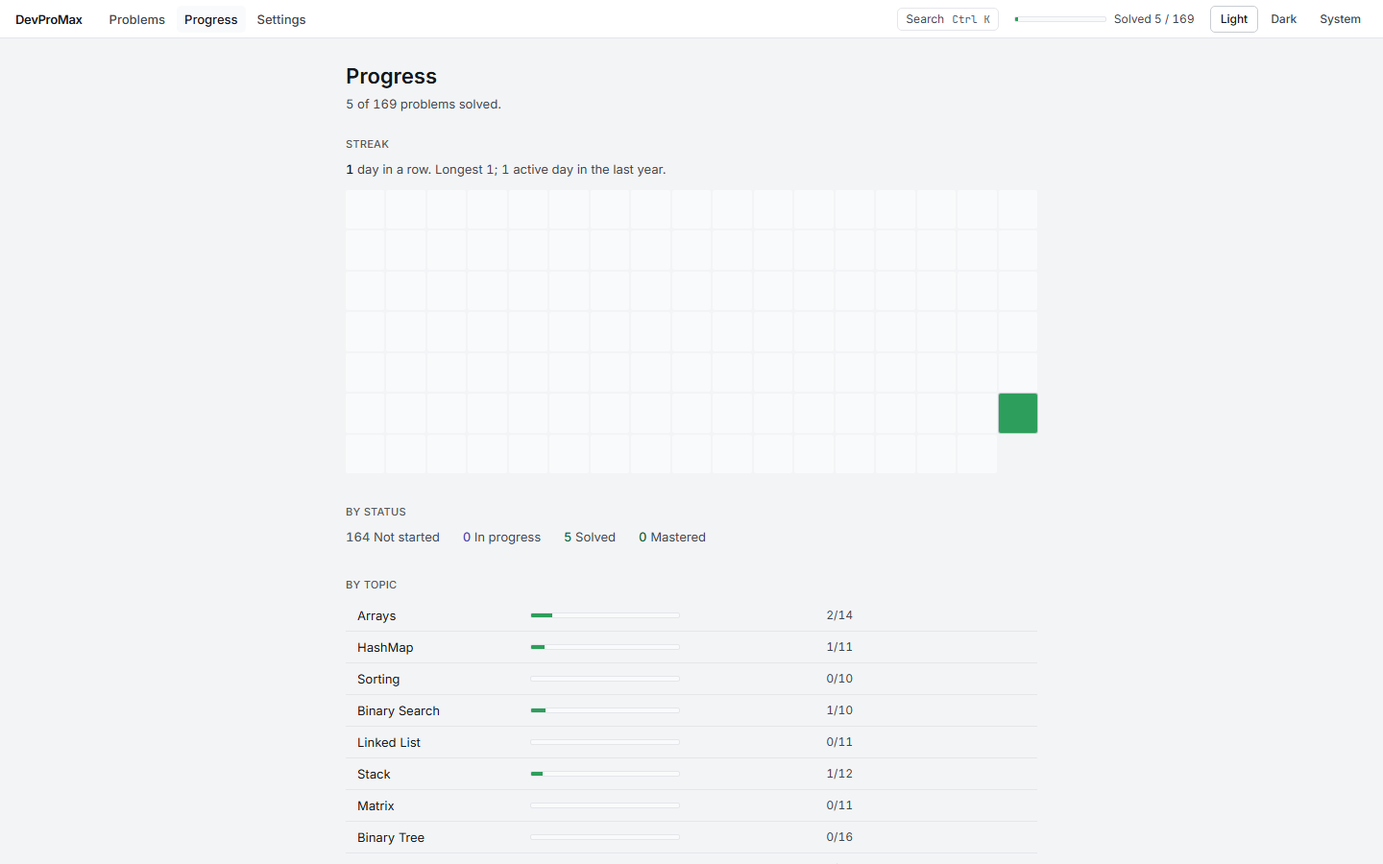
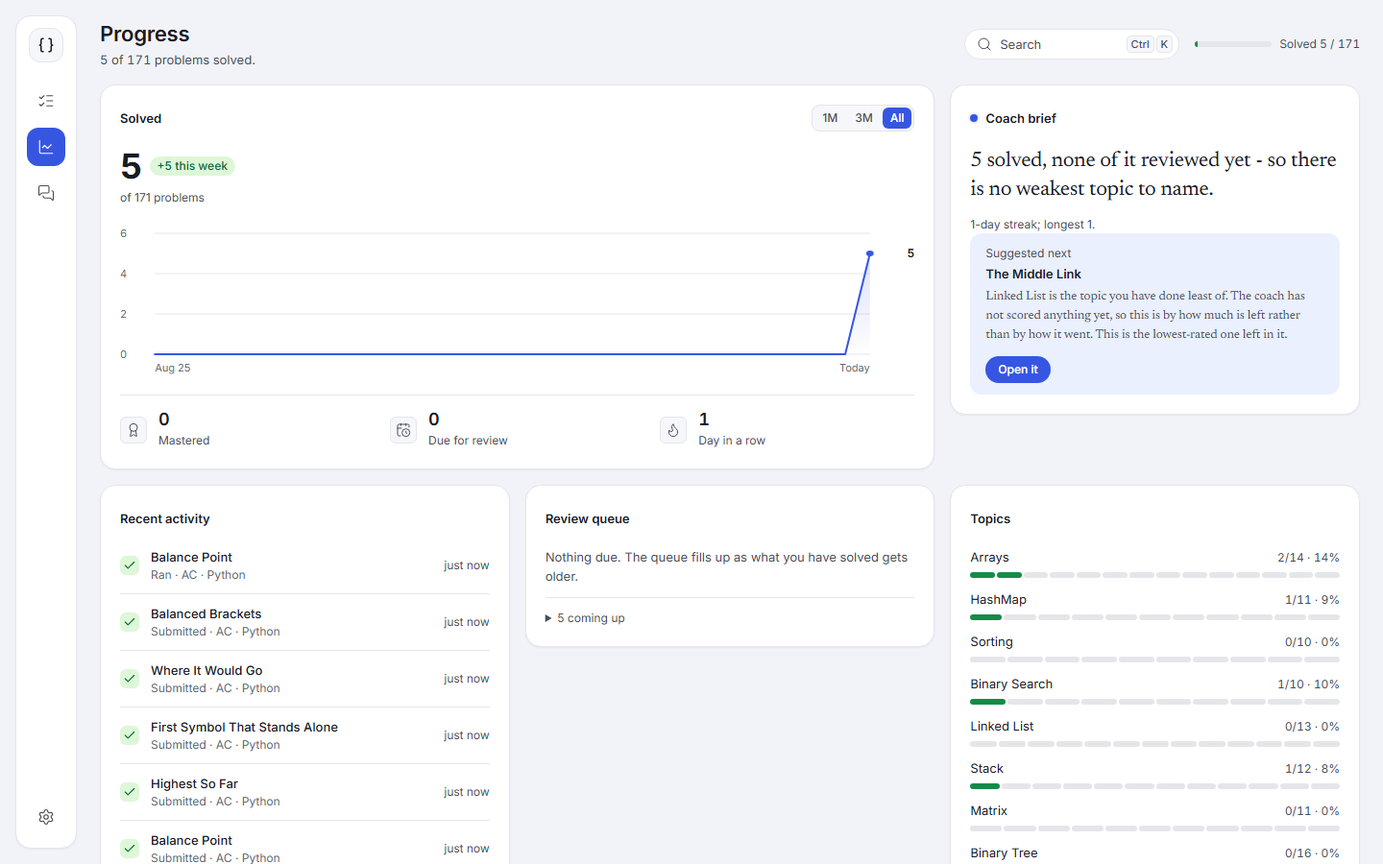
P9-6: DESIGN.md, ROADMAP, CHANGELOG and README screenshots for the shipped v2
DESIGN.md states the shipped values and where they moved from the targets
read off the reference, with why: the dark surface steps, accent hue 268,
the selected step and what may sit on it, border-input, solved progress in
success rather than the accent, the rail and header as built, the Due view,
the dashboard's cards and its coach brief written from the coach's marks,
Segmented as toggle buttons. The list's row cost is stated as measured
(19 rows where there were 24 at 1440x900), not as the "about one" it first
said - left for the owner to weigh.

The P9-6 row is Done; the milestone line and CLAUDE.md say so, and
CLAUDE.md's e2e line names DEVPROMAX_PORT. The CHANGELOG entry records the
unattended run: the missing reference, four preview rounds and the no-pass
rule, what the rounds and the audit of the built app found, and the e2e
suite's discovery about its own database. README screenshots retaken.

diff --git a/docs/DESIGN.md b/docs/DESIGN.md
@@ -8,12 +8,14 @@ It is a working document with teeth: section 13 is a checklist, and a screen
 that fails it does not merge. Where it is silent, decide in the spirit of
 section 1 and then write down what you decided.
 
-> **Status (2026-09-22, P9-6).** This is the second version of this document,
-> rewritten from a reference the owner chose (section 2). `tokens.css` and the
-> screens still implement the first version until P9-6 lands, so an audit against
-> this document today reports the whole gap - which is the work list. The first
-> version is in git history: `git show 181e5c5:docs/DESIGN.md`. Values marked _target_ are read off the reference by eye; P9-6 sets
-> the exact ones in `tokens.css`, where `contrast.test.ts` proves them.
+> **Status (2026-09-23, P9-6).** This is the second version of this document,
+> rewritten from a reference the owner chose (section 2) and implemented by P9-6.
+> The values below are the shipped ones in `tokens.css`, where `contrast.test.ts`
+> proves them; where they moved from the targets read off the reference, the
+> table says so and why. The first version is in git history:
+> `git show 181e5c5:docs/DESIGN.md`. The redesign's run - brief, four reviewed
+> preview rounds, decision - is in `data/design-audit/redesign-cards/`
+> (gitignored).
 
 ---
 
@@ -100,52 +102,77 @@ matters:
 > the semantic name. If none fits, add one - do not reach past them into a ramp.
 
 Colours are OKLCH so that equal steps look equal. Neutrals lean slightly blue
-(hue ~265) toward the accent, as the reference's greys do.
+(hue 265) toward the accent, as the reference's greys do.
 
-### Surfaces, light theme (_target_)
+### Surfaces, light theme
 
-| Token            | Target                   | Used for                                                             |
-| ---------------- | ------------------------ | -------------------------------------------------------------------- |
-| `bg`             | `oklch(0.965 0.006 265)` | The canvas behind everything                                         |
-| `surface`        | `oklch(1 0 0)`           | Cards and the rail                                                   |
-| `surface-sunken` | `oklch(0.975 0.004 265)` | Inside a card: segmented trays, search fields, table headers         |
-| `surface-raised` | `oklch(1 0 0)`           | Menus, the palette, dialogs (lifted by `shadow-overlay`, not colour) |
-| `border`         | `oklch(0.925 0.006 265)` | The hairline around every card and between rows                      |
-| `border-strong`  | `oklch(0.86 0.008 265)`  | Inputs, the edge of a control that can be clicked                    |
+| Token              | Value                    | Used for                                                                        |
+| ------------------ | ------------------------ | ------------------------------------------------------------------------------- |
+| `bg`               | `oklch(0.965 0.006 265)` | The canvas behind everything                                                    |
+| `surface`          | `oklch(1 0 0)`           | Cards and the rail                                                              |
+| `surface-sunken`   | `oklch(0.975 0.004 265)` | **Inside a card only**: trays, wells, table headers, the row under the pointer  |
+| `surface-raised`   | `oklch(1 0 0)`           | Menus, the palette, dialogs (lifted by `shadow-overlay`, not colour)            |
+| `surface-selected` | accent-200               | The selected row or option; see below                                           |
+| `border`           | `oklch(0.925 0.006 265)` | The hairline around every card and between rows                                 |
+| `border-strong`    | `oklch(0.86 0.008 265)`  | The edge of a control that can be clicked: buttons, trays                       |
+| `border-input`     | neutral-525 (L 0.64)     | The edge of a text field: 3:1 on the card, since it is the only sign of a field |
 
-### Surfaces, dark theme (_target_)
+`surface-sunken` is lighter than the canvas, so it is only ever used inside a
+card; on the canvas a well reads as a raised patch or not at all. A tray that
+sits on the canvas (the workspace toolbar's language control) takes `surface`.
+
+### Surfaces, dark theme
 
 Dark is designed, not inverted: surfaces get **lighter** as they rise, and
 tonal steps do the lifting because a shadow on near-black is invisible.
 
-| Token            | Target                   |
-| ---------------- | ------------------------ |
-| `bg`             | `oklch(0.155 0.01 265)`  |
-| `surface`        | `oklch(0.2 0.012 265)`   |
-| `surface-sunken` | `oklch(0.175 0.01 265)`  |
-| `surface-raised` | `oklch(0.235 0.013 265)` |
-| `border`         | `oklch(0.27 0.012 265)`  |
-| `border-strong`  | `oklch(0.36 0.014 265)`  |
+| Token            | Value                    | Target read off the reference | Why it moved                                                                     |
+| ---------------- | ------------------------ | ----------------------------- | -------------------------------------------------------------------------------- |
+| `bg`             | `oklch(0.155 0.01 265)`  | same                          |                                                                                  |
+| `surface`        | `oklch(0.225 0.012 265)` | `0.2`                         | A card needs 1.14:1 over the canvas to read as a card with no shadow             |
+| `surface-sunken` | `oklch(0.185 0.01 265)`  | `0.175`                       | Kept between canvas and card after the card moved                                |
+| `surface-raised` | `oklch(0.27 0.013 265)`  | `0.235`                       | Tooltips melted into the card at 1.08:1; 1.14:1 now, plus a `border-strong` edge |
+| `border`         | `oklch(0.3 0.012 265)`   | `0.27`                        | Holds the card-edge floor (1.2:1) against the lighter card                       |
+| `border-strong`  | `oklch(0.38 0.014 265)`  | `0.36`                        | Same                                                                             |
+| `fg`             | `oklch(0.94 0.006 265)`  | about 0.95                    |                                                                                  |
 
-Text in dark is off-white (`fg` about L 0.95), never pure white.
+Text in dark is off-white, never pure white.
+
+### The selected step
+
+`surface-selected` (added by P9-6) marks the row or option you are on: the
+palette's highlighted result, the test being read in the results card, the
+current interview problem. It is a blue step (light accent-200; dark a calm
+accent-900 at chroma .07, so a verdict dot on it still holds 3:1), and it is
+never the only signal - it always comes with a 2px accent bar at the row's left
+edge and usually a heavier label. Text on it is `fg`, `fg-muted` or a verdict's
+`*-fg`, never `fg-subtle`, which drops to 4.1:1 there. In dark the Callout's `accent-subtle`
+sits a step below it, so a suggestion never reads as a selection.
 
 ### The accent
 
-One accent, a saturated royal blue, _target_ `oklch(0.52 0.23 266)` for fills
-in light and `oklch(0.56 0.21 266)` in dark, with white text on both (5.9:1 and
-about 4.9:1; the dark fill cannot get lighter without losing that).
+One accent, a saturated royal blue: `oklch(0.52 0.215 268)` for fills in light
+and `oklch(0.565 0.2 268)` in dark, with white text on both (5.86:1 and
+4.78:1; the dark fill cannot get lighter without losing that). The reference
+read as `0.52 0.23 266`; that is within a few ΔE of Tailwind's stock blue-600,
+which the preview reviewers flagged as a default-kit colour, so the hue moved
+two degrees and the chroma came down a little - still the reference's blue.
 `accent-fg` (the accent as text) is darker in light and lighter in dark;
 `accent-subtle` is the pale blue tint of the Callout.
 
 It means **"this is the action"** or **"this is where you are"**: the primary
 pill, the active rail item, the selected segment, the focus ring, a chart's
-line, the current row. It is never decoration, and it is never a status -
+line, the bar on the current row. It is never decoration, and it is never a status -
 "In progress" is drawn in `fg-muted` with its ring glyph, not in blue, so the
 only blue things on screen are things you can act on or where you are.
 
 The previous accent was indigo-violet, chosen to sit far from the verdict hues
-and from the editor. Blue at 266 is still far from green, amber and red, but it
-is Monaco's keyword blue - so the editor gets its own theme (section 8).
+and from the editor. Blue at 268 is still far from green, amber and red, but it
+is Monaco's keyword blue - so the editor gets its own theme (section 8), and code
+keywords everywhere take `code-keyword`, a violet at hue 315.
+
+The focus ring is accent-800 in light (darker than the fill, 1.8:1 against the
+Submit pill it surrounds) and accent-400 in dark.
 
 ## 5. Type
 
@@ -189,13 +216,13 @@ Every number read by comparison - counts, timings, ratings, deltas - gets `tnum`
 so even steps land on the grid and odd ones are deliberate half-steps. The
 reference's airiness is spent in chosen places, not by stretching the step:
 
-| Where                 | Space                                                                                   |
-| --------------------- | --------------------------------------------------------------------------------------- |
-| Canvas padding        | 24px (`p-6`)                                                                            |
-| Gap between cards     | 16px (`gap-4`); 12px in the workspace, where width is scarce                            |
-| Card padding          | 20px (`p-5`); 16px for dense cards (the list, the results panel)                        |
-| Card title to content | 16px                                                                                    |
-| Table rows            | 36px tall (was 33px): about one row fewer at 900px, accepted by the owner for this look |
+| Where                 | Space                                                                                                                                                                                                                                                       |
+| --------------------- | ----------------------------------------------------------------------------------------------------------------------------------------------------------------------------------------------------------------------------------------------------------- |
+| Canvas padding        | 24px (`p-6`)                                                                                                                                                                                                                                                |
+| Gap between cards     | 16px (`gap-4`); 12px in the workspace, where width is scarce                                                                                                                                                                                                |
+| Card padding          | 20px (`p-5`); 16px for dense cards (the list, the results panel)                                                                                                                                                                                            |
+| Card title to content | 16px                                                                                                                                                                                                                                                        |
+| Table rows            | 36px tall (was 33px). Measured after P9-6: with the page header and the card's toolbar, a 1440×900 window shows 19 rows where version 1 showed 24 - more than the "about one row fewer" this table first said. Left for the owner to weigh against the look |
 
 In hand-written CSS a spacing step is `calc(var(--spacing) * 3)`, never
 `var(--spacing-3)`. Tailwind v4 has one `--spacing` variable; the shorter
@@ -247,8 +274,12 @@ Two uses are added:
 - **Positive numbers** in a list may be `success-fg`; negative ones stay `fg`.
   Red is for failure, not for "less".
 
-Progress statuses: Not started is `fg-subtle`, In progress is `fg-muted` with
-the half-ring glyph, Solved and Mastered are `success`, told apart by shape.
+Progress statuses: Not started is an empty ring in `fg-subtle`, In progress a
+half-filled ring in `fg-muted`, Solved a disc and Mastered a disc in a ring, both
+`success`. Solved counts drawn as progress - topic bars, the solved meter - are
+`success` too: solved is a status, and the accent never is one. (The first draft
+of this version said topic segments were "solved in accent"; that contradicted
+this section, and the preview review caught it.)
 
 **Never colour alone.** Every state carries a second signal: a word, a shape, an
 icon, an `aria-` attribute. Roughly one reader in twelve cannot separate red
@@ -265,21 +296,28 @@ The shell and each screen, in the reference's terms. Components are built with
 the screen that needs them (section 10).
 
 **Shell.** A 64px icon rail on the left, a card of its own on the canvas: the
-logo mark at the top, then Problems, Progress, Interview, and Settings pinned to
-the bottom. Items are 40px squares with an 18px outline icon; the active one is
-filled `accent` with a white icon, `rounded-lg`. Every item has a tooltip naming
-it and its shortcut. The rail replaces the top navigation bar. To the right of
+logo mark at the top (a neutral tile, not a link), then Problems, Progress,
+Interview, and Settings pinned to the bottom. Items are 40px squares with an 18px
+outline icon; the active one is filled `accent` with a white icon, `rounded-lg`,
+and Problems stays active inside a problem. Every item has a tooltip naming it
+(there are no navigation shortcuts to add to it). The rail replaces the top
+navigation bar. The theme choice is in Settings > Appearance, not the chrome: the
+header has room for what is used on every visit, and the theme is chosen once. To the right of
 it, each page has a **header** on the canvas, not in a card: title (`text-xl`,
-600), one muted line of real context beneath ("171 problems · 4 due for
-review"), and on the right the search pill (`surface`, `rounded-full`, "Search"
+600), one muted line of real context beneath ("4 due for review · 1 in
+progress" - what is waiting, never a count the page shows again below), and on the right the search pill (`surface`, `rounded-full`, "Search"
 plus a `Ctrl K` chip, opening the palette) and the solved counter.
 
-**Problem list.** Two cards: filters (topic, difficulty, status, starred) in a
-narrow card on the left, and the table in a wide card beside it, with its own
-toolbar row (search field, a Segmented control for All / Due / Starred, the
-count). Rows 36px, hairline dividers, status glyph first, numbers `tnum` and
-right-aligned. The row under the pointer takes `surface-sunken`; the current row
-has a 2px accent bar at its left edge.
+**Problem list.** Two cards: filters (topic, difficulty, status, the language
+progress is counted in) in a narrow card on the left, and the table in a wide
+card beside it, with its own toolbar row (search field, a Segmented control for
+All / Due / Starred, the count). Due is a list filter of its own
+(`?due=true`, from the review queue) and Starred moved out of the filter card
+into the Segmented. Rows 36px, hairline dividers, status glyph first, numbers
+`tnum` and right-aligned. The row under the pointer takes `surface-sunken`; the
+row holding keyboard focus - where you are - has a 2px accent bar at its left
+edge. Below 1280px the filter card folds behind a Filters button and the
+Patterns column steps aside.
 
 **Workspace.** Three cards with 12px gutters: the statement (tabs across its top,
 Description / Hints / Coach / Editorial / Notes / Submissions), the editor, and
@@ -297,21 +335,29 @@ verdict's subtle tint with its glyph, then the verdict in words.
 **Coach tab.** The coach's words in Newsreader `text-md`, the rubric as small
 pips, the user's messages in Inter. The recommendation sits in a Callout.
 
-**Progress.** The one screen that is a dashboard, laid out like the reference's:
+**Progress.** The one screen that is a dashboard, laid out like the reference's.
+The `solves` series behind the chart (first accepts per day) is part of
+`/api/dashboard`:
 
 - A wide **Solved** card: the count as a `text-3xl` 700 numeral, a delta chip
   ("+3 this week"), a Segmented range control (1M / 3M / All), and a line chart
   of solves over time in the accent, with the permitted area fill. Beneath a
   divider, three sub-stats with icon tiles: Mastered, Due for review, Current streak.
 - A **Coach brief** card beside it: the coach mark, a one-sentence serif headline
-  ("You are strongest in hash maps; graphs have stalled for nine days."), a short
-  list of the signals behind it, and a Callout with the suggested next problem
-  and a primary pill to open it.
-- A row of three cards: **Recent submissions** (verdict tile, problem, topic ·
-  when, time right-aligned), **Review queue** (due items, same row pattern), and
-  **Topics** (each topic's name, percentage, and a segmented bar of its problems:
-  solved in accent, remaining in `border`; a topic behind its review schedule
-  uses `warn` with the words "behind").
+  ("You are strongest in HashMap and weakest in Graph."), a short list of the
+  signals behind it, and a Callout with the suggested next problem and a primary
+  pill to open it. The sentence is written locally from the coach's rubric marks
+  and the review queue - the coach's record read back in its voice - and never by
+  calling the coach: D13 does not bend for a dashboard.
+- A row of three cards: **Recent activity** (verdict tile for a submission or a
+  run, a neutral icon tile for a hint, an editorial or a coaching turn; problem;
+  what happened · language; when, right-aligned), **Review queue** (due items,
+  same row pattern; absent before anything is solved), and **Topics** (each
+  topic's name, percentage, and a segmented bar of its problems: solved in
+  `success`, remaining in `border`; a topic behind its review schedule uses
+  `warn` with the word "behind"; tiers in a footer line).
+- Then the coach's marks per topic (**Weakest topics**), the **Streak** in words
+  with a neutral calendar under it, and the **Skills report** export.
 
 **Interview.** A header, then one card for the running sitting (stage as a
 Segmented display, clock in `tnum`), the transcript in the coach's serif.
@@ -358,18 +404,20 @@ Primitives in `apps/web/src/ui/` today: `Button`, `Input`, `Tabs`, `Tooltip`.
 This design adds, each when its first screen is built and promoted to `ui/` when
 a second one needs it:
 
-| Pattern           | First needed by | What it is                                                                                            |
-| ----------------- | --------------- | ----------------------------------------------------------------------------------------------------- |
-| `Card`            | Shell           | `surface`, `border`, `shadow-card`, `rounded-xl`, a title slot and an action slot (the ↗ link button) |
-| `Button` variants | Workspace       | `primary` becomes a pill; `secondary` stays `rounded-md`; new `primary-outline`                       |
-| `Segmented`       | Workspace       | Radix Toggle Group in a `surface-sunken` tray, selected segment filled `accent`                       |
-| `Kbd`             | Shell           | `rounded-xs` chip, `text-2xs`, `surface-sunken`, `fg-muted`                                           |
-| `RailItem`        | Shell           | Icon link with tooltip, active state                                                                  |
-| `Stat`            | Progress        | Numeral, label, optional delta chip                                                                   |
-| `Callout`         | Coach, Progress | `accent-subtle` inset, `rounded-lg`, no border                                                        |
-| `ListRow`         | Progress        | Icon or verdict tile, title, meta line, right-aligned value                                           |
-| `SegmentBar`      | Progress        | A row of small segments, one per item, for topic progress                                             |
-| `CoachMark`       | Coach           | 8px `accent` dot in a 2px `accent-subtle` ring - flat, no gradient                                    |
+| Pattern           | First needed by | What it is                                                                                                                                                                                                            |
+| ----------------- | --------------- | --------------------------------------------------------------------------------------------------------------------------------------------------------------------------------------------------------------------- |
+| `Card`            | Shell           | `surface`, `border`, `shadow-card`, `rounded-xl`, a title slot and an action slot (the ↗ link button)                                                                                                                 |
+| `Button` variants | Workspace       | `primary` becomes a pill; `secondary` stays `rounded-md`; new `primary-outline`                                                                                                                                       |
+| `Segmented`       | Workspace       | Toggle buttons (`aria-pressed`) in a labelled group, in a `surface-sunken` tray, selected segment filled `accent`; arrow keys move between them. Not Radix Toggle Group: the choosers were already announced this way |
+| `Kbd`             | Shell           | `rounded-xs` chip, `text-2xs`, `surface-sunken`, `fg-muted`                                                                                                                                                           |
+| `RailItem`        | Shell           | Icon link with tooltip, active state                                                                                                                                                                                  |
+| `Stat`            | Progress        | Numeral, label, optional delta chip                                                                                                                                                                                   |
+| `Callout`         | Coach, Progress | `accent-subtle` inset, `rounded-lg`, no border                                                                                                                                                                        |
+| `ListRow`         | Progress        | Icon or verdict tile, title, meta line, right-aligned value                                                                                                                                                           |
+| `SegmentBar`      | Progress        | A row of small segments, one per item, for topic progress                                                                                                                                                             |
+| `CoachMark`       | Coach           | 8px `accent` dot in a 2px `accent-subtle` ring - flat, no gradient                                                                                                                                                    |
+| `VerdictTile`     | Workspace       | 20px `rounded-sm` square in the verdict's subtle tint with its glyph (tick, cross, clock)                                                                                                                             |
+| `IconTile`        | Progress        | The neutral tile beside a sub-stat or a non-verdict row                                                                                                                                                               |
 
 Icons are `lucide-react` (ISC licence): outline, 1.5px stroke, 16px in text and
 18px in the rail. It is an icon set, not a component library; the CLAUDE.md rule
@@ -412,6 +460,7 @@ Unchanged in substance from the first version:
 - [ ] Reachable and operable by keyboard alone; focus order matches visual order.
 - [ ] Focus ring present, not overridden, visible beside an accent fill.
 - [ ] No state signalled by colour alone; blue only for action or location.
+- [ ] A selected row carries a bar or weight as well as `surface-selected`; `surface-sunken` only inside a card.
 - [ ] Text contrast ≥ 4.5:1, meaningful borders and icons ≥ 3:1, both themes.
 - [ ] Spacing on the 4px step; card, gutter and row spacing as section 6.
 - [ ] Radius by size (section 6); nothing nested at the same radius as its parent.

diff --git a/ROADMAP.md b/ROADMAP.md
@@ -179,7 +179,7 @@ Phases: **P0** Foundations · **P1** Problem format · **P2** Judge + authoring 
 | 82 | P9-3 | P9 | More languages | C++, JavaScript/TypeScript, Go via new harnesses; content gets references per language incrementally. 2026-09-22: **deferred by the owner** until the existing app is solid; do not start without asking. When it resumes, the proposal on the table is JavaScript first (Node is already on both machines, so no new toolchain), a problem offering a language only once it has a reference in it, and Arrays as the pilot topic. | Blocked |
 | 83 | P9-4 | P9 | OpenAI-compatible provider | Adapter for OpenAI-compatible endpoints (`baseUrl`), which also covers Ollama/LM Studio for fully offline coaching. 2026-09-18: `createOpenAiCompatibleProvider`, third through the D12 seam, and the 51 assertions in `contract.test.ts` now run three times. Two things are different about it, both because the endpoint is the user's own: `coach.baseUrl` is a **setting** rather than an environment override - for the other two the address is a fact about the vendor - and its pricing table is **empty on purpose**, so the spend cap does not apply and Settings says why instead of showing a confident `$0.00`. Structured output is negotiated: `json_schema` first, one retry in `json_object` when the server says it cannot do schemas, since llama.cpp and friends still refuse and the answer is re-validated against the zod schema here either way. Two contract assertions had to be widened rather than satisfied: the key arrives as `Bearer <key>`, and the OpenAI chat API has no field for the system prompt at all - it is `messages[0]`, and asserting otherwise would be asserting the API is something else. | Done |
 | 84 | P9-5 | P9 | Format on save | Optional `black` and `google-java-format` integration via subprocess, detected at first run. 2026-09-22: `apps/server/src/formatters.ts` finds each by running it with `--version` - `DEVPROMAX_BLACK`, else `black`, else `<judge python> -m black`; `DEVPROMAX_GOOGLE_JAVA_FORMAT` (a jar, run with the judge's `java`, or an executable), else `google-java-format` - at start-up, cached, and again from Settings' "Check again". `GET`/`POST /api/format`; formatting is 200 in all three outcomes (`formatted`, `invalid` with the formatter's line and column, `unavailable`), writes nothing, and runs through `runProcess` with stdin (new `input` option), the allow-listed environment, a 20 s limit and an output cap. Java uses `--aosp`, the four-space style every starter already has. **"On save" means Ctrl+S, not the autosave**: the autosave fires mid-line, and reflowing code under a moving cursor is how a formatter gets uninstalled. So Ctrl+S (new, and no longer the browser's Save page dialog) saves at once and formats first when the new `editor.formatOnSave` preference is on; a Format button and Monaco's Shift+Alt+F appear only for a language whose formatter was found; the result goes in as one undoable edit, and only if the editor still holds exactly what was sent. The doctor lists both as optional without affecting its exit code. Tests: 25 unit (`formatters.test.ts`, a stand-in runner), 11 route, 2 `runProcess` stdin, 7 integration against the real two (opt-in, `DEVPROMAX_FORMATTER_TESTS=1`, own CI lane with pinned versions), 8 RTL in the workspace and 3 in Settings, and `e2e/format.spec.ts` for the undo and the Monaco keybinding. The browser pass found two defects the RTL suite could not: Ctrl+S straight after typing sent the text from before the last render, and the Format button kept focus so Ctrl+Z undid nothing. | Done |
-| 85 | P9-6 | P9 | Visual redesign to DESIGN.md v2 | 2026-09-22: `docs/DESIGN.md` rewritten from the owner's reference (card-based dashboard look, icon rail, royal-blue accent, serif coach voice); ROADMAP D16 updated. Remaining, through the `design-update` skill's redesign mode (`.claude/skills/design-update/reference/redesign.md`): save the reference image under `data/design-audit/<slug>/reference/` and measure it; propose `tokens.css` v2 (checked by `check-proposal.mjs`, previewed on every screen in both themes, independently reviewed, approved by the owner); then add `@fontsource-variable/newsreader` and `lucide-react`, build the shell (icon rail, page headers), the new primitives (Card, Segmented, Kbd, Stat, Callout, ListRow, SegmentBar, CoachMark), the Monaco theme from tokens, and the Progress dashboard; update `contrast.test.ts` (card-edge pair), the skill's audit rules, KitchenSink and the README screenshots. | In progress |
+| 85 | P9-6 | P9 | Visual redesign to DESIGN.md v2 | 2026-09-22: `docs/DESIGN.md` rewritten from the owner's reference (card-based dashboard look, icon rail, royal-blue accent, serif coach voice); ROADMAP D16 updated. 2026-09-23, unattended through the `design-update` skill's redesign mode (run `data/design-audit/redesign-cards/`): four token rounds previewed on every screen in both themes and independently reviewed; none reached the pass score (the preview cannot show layout), so the best round with every hard gate green went forward under the skill's no-pass rule, its open issues carried into the apply (`decision.md`). Shipped: `tokens.css` v2 (accent hue 268, `surface-selected`, `code-keyword`, `card-lift`), Newsreader and lucide-react, the Monaco theme from the tokens, the icon rail and page headers, the primitives (Card, Segmented, Kbd, RailItem, Stat, Callout, ListRow, SegmentBar, CoachMark, VerdictTile), every screen as cards, the Progress dashboard (with a `solves` series on `/api/dashboard`) and a Due view of the list (`?due=true`); `contrast.test.ts` and the skill's gates hold the new pairs; KitchenSink and the README screenshots show it. The reference image was not on disk, so the values came from DESIGN.md's targets. | Done |
 
 ---
 
@@ -194,7 +194,7 @@ Phases: **P0** Foundations · **P1** Problem format · **P2** Judge + authoring 
 | M3 Full catalogue | P6-0 … P6-7 | **Reached 2026-09-18.** 169 validated problems across all 14 topics and three tiers, every one with a generator, 2794 hidden tests, and all 95 patterns in the closed vocabulary used. Fewer than the ~200 the row first named, and deliberately: `docs/CURRICULUM.md` records every problem that was cut and why, the rule being that a problem which teaches nothing the one before it did not is worse than no problem. Differential testing regenerated all of them at two fresh seeds with the two references agreeing. |
 | M4 Learning loop | P7-1 … P7-10 | **Reached 2026-09-18, apart from P7-10.** Progressive hints the coach adapts rather than repeats; the editorial unlock with a reference diff; submission history you can open, compare and restore; notes that the list searches; the dashboard with its streak, rubric averages and exportable skills report; interview mode with a clock and no hints; the command palette, bookmarks and a recommendation that states its reason; the review queue; and version drift reported without ever demoting. P7-10 needs measured solving times, which only exist once someone has practised under P7-6's timer. |
 | M5 Release 1.0 | P8-1 … P8-5 | **Reached 2026-09-22.** Packaged `npm start`, docs complete, `temp/` retired. P8-1, P8-2 and P8-3 reached 2026-09-18: 76 end-to-end tests with a counted flake budget, performance budgets that fail a build and Lighthouse ≥ 90 in both themes, and a first-run doctor with backup and restore. P8-4 reached 2026-09-18: the README, screenshots and CHANGELOG. P8-5 closed 2026-09-22 when the owner confirmed retiring `temp/`. |
-| Beyond v1 | P9-1 … P9-6 | Stretch, and only where the machine allows it. P9-4 (OpenAI-compatible provider) and P9-1 (mock interview mode) reached 2026-09-18. P9-2 (Docker executor) reached 2026-09-22 on the second machine, which has Docker. P9-5 (format on save) reached 2026-09-22, optional and off by default. P9-6 (visual redesign) started 2026-09-22 with DESIGN.md v2. P9-3 is named out of scope for v1 in section 1. |
+| Beyond v1 | P9-1 … P9-6 | Stretch, and only where the machine allows it. P9-4 (OpenAI-compatible provider) and P9-1 (mock interview mode) reached 2026-09-18. P9-2 (Docker executor) reached 2026-09-22 on the second machine, which has Docker. P9-5 (format on save) reached 2026-09-22, optional and off by default. P9-6 (visual redesign) started 2026-09-22 with DESIGN.md v2 and reached 2026-09-23. P9-3 is named out of scope for v1 in section 1. |
 
 ---
 

diff --git a/CLAUDE.md b/CLAUDE.md
@@ -6,7 +6,7 @@ Working agreement for AI-assisted development on this repo. Read `ROADMAP.md` fi
 
 DevProMax is a local-first, LeetCode-style DSA training app for **Python and Java**. A React web UI lists 171 original problems across 14 topics, sorted by difficulty; users run and submit code against hidden tests in a local judge; an on-demand **AI Help** button sends the current code to an LLM coach (user-supplied Anthropic or Gemini key) that responds with rubric feedback and hints until the solution is Mastered.
 
-Current state: **M5 reached (2026-09-22)** — release 1.0; M4 was reached 2026-09-18. The catalogue is 171 validated problems with generated hidden tests (M3); the learning loop is complete apart from P7-10 — progressive hints, the editorial unlock with a diff, submission history, notes, the dashboard and its exportable skills report, interview mode, the command palette with bookmarks and recommendations, the spaced-repetition review queue, and version drift with Re-verify. M5's P8-1 … P8-5 are done: end-to-end tests with a flake budget, performance budgets and Lighthouse ≥ 90, the doctor, welcome, movable `data/` and backups, the README and CHANGELOG, and the legacy `temp/` archive retired (git history keeps it; last at `2c01d25`). Beyond v1, P9-1 (mock interview), P9-2 (Docker executor), P9-4 (OpenAI-compatible provider) and P9-5 (format on save, with optional `black` / `google-java-format`) are done.
+Current state: **M5 reached (2026-09-22)** — release 1.0; M4 was reached 2026-09-18. The catalogue is 171 validated problems with generated hidden tests (M3); the learning loop is complete apart from P7-10 — progressive hints, the editorial unlock with a diff, submission history, notes, the dashboard and its exportable skills report, interview mode, the command palette with bookmarks and recommendations, the spaced-repetition review queue, and version drift with Re-verify. M5's P8-1 … P8-5 are done: end-to-end tests with a flake budget, performance budgets and Lighthouse ≥ 90, the doctor, welcome, movable `data/` and backups, the README and CHANGELOG, and the legacy `temp/` archive retired (git history keeps it; last at `2c01d25`). Beyond v1, P9-1 (mock interview), P9-2 (Docker executor), P9-4 (OpenAI-compatible provider), P9-5 (format on save, with optional `black` / `google-java-format`) and P9-6 (the visual redesign to DESIGN.md v2) are done.
 
 Two tasks are not to be started and say so in their rows: **P7-10** needs measured human solving times, and **P9-3** (more languages) is deferred by the owner until the existing app is solid.
 
@@ -38,7 +38,7 @@ npm start                   # production build, then app + API on 127.0.0.1:5174
 npm test                    # Vitest unit + contract + judge integration (npm run test:watch for watch mode)
 npm run test:unit           # everything except *.integration.test.ts (seconds, Node only)
 npm run test:integration    # only *.integration.test.ts (spawns real python/java)
-npm run test:e2e            # Playwright (its own database: DEVPROMAX_DB=data/e2e.db)
+npm run test:e2e            # Playwright (its own database: DEVPROMAX_DB=data/e2e.db); beside a running dev server, set DEVPROMAX_PORT to a free port
 npm run perf:lighthouse     # Lighthouse over the built app in both themes; run `npm run build` first
 npm run screenshots         # retake the README's screenshots from the built app
 npm run lint && npm run typecheck           # lint:fix, format and format:check also exist
@@ -60,7 +60,7 @@ Do not invent others without adding them here.
 - **Tests ship with the change.** Judge changes need integration tests that spawn real interpreters. UI behaviour needs RTL tests; golden paths need Playwright. New problems must pass `problems:validate` before commit.
 - **Problem format** is specified in `docs/PROBLEM_FORMAT.md`; `docs/schema/*.schema.json` is generated from the zod schemas by `npm run problems:schema` and must never be hand-edited.
 - **Problem content** must be original wording (no copied LeetCode text), include ≥ 3 visible samples with explanations and ≥ 10 generated hidden tests with edge cases (empty, single element, max size, duplicates, negatives), a hints ladder, an editorial, and starter + reference in both languages. Follow `docs/AUTHORING.md` once it exists.
-- **Design** follows `docs/DESIGN.md`, and its section 13 checklist is part of every UI review. Version 2 (2026-09-22, P9-6, being implemented): white rounded cards on a pale canvas with an icon rail, one royal-blue accent, Inter + JetBrains Mono with Newsreader serif for the coach's words only. In short: semantic tokens only (never a ramp colour or raw hex), one accent, 4px spacing step, every card answers one question (no KPI-tile grids, no cards in cards), no gradients except a chart's area fill, no emoji in UI chrome, real keyboard support, both themes reviewed. Components are built with the screen that needs them, not ahead of time; the primitives in `apps/web/src/ui/` are the exception and the reference page is `/dev/kitchen-sink`. Contrast is enforced twice: `apps/web/src/styles/contrast.test.ts` measures the tokens rather than trusting them, and `apps/web/e2e/a11y.spec.ts` runs axe over every screen in both themes in a real browser. If a screen looks like a generic dashboard template, it is wrong. A whole-UI design pass uses the `design-update` skill (`.claude/skills/design-update/`): it captures every screen in both themes into `data/design-audit/`, measures painted values against the tokens, audits the source, and plans fixes by priority, token layer first. Its `redesign` mode restyles the app to a reference or brief: proposed tokens are previewed on every screen, reviewed, and approved by the owner before any source changes.
+- **Design** follows `docs/DESIGN.md`, and its section 13 checklist is part of every UI review. Version 2 (P9-6, shipped 2026-09-23): white rounded cards on a pale canvas with an icon rail, one royal-blue accent, Inter + JetBrains Mono with Newsreader serif for the coach's words only. In short: semantic tokens only (never a ramp colour or raw hex), one accent, 4px spacing step, every card answers one question (no KPI-tile grids, no cards in cards), no gradients except a chart's area fill, no emoji in UI chrome, real keyboard support, both themes reviewed. Components are built with the screen that needs them, not ahead of time; the primitives in `apps/web/src/ui/` are the exception and the reference page is `/dev/kitchen-sink`. Contrast is enforced twice: `apps/web/src/styles/contrast.test.ts` measures the tokens rather than trusting them, and `apps/web/e2e/a11y.spec.ts` runs axe over every screen in both themes in a real browser. If a screen looks like a generic dashboard template, it is wrong. A whole-UI design pass uses the `design-update` skill (`.claude/skills/design-update/`): it captures every screen in both themes into `data/design-audit/`, measures painted values against the tokens, audits the source, and plans fixes by priority, token layer first. Its `redesign` mode restyles the app to a reference or brief: proposed tokens are previewed on every screen, reviewed, and approved by the owner before any source changes.
 - **Shortcuts**: `Ctrl+Enter` run, `Ctrl+Shift+Enter` submit, `Ctrl+S` save now (formatting first when the preference is on), `Ctrl+J` toggle bottom panel, `Ctrl+Shift+H` AI Help, `Shift+Alt+F` format (a Monaco action, present only when the language's formatter was found). Never bind `Ctrl+/` (Monaco comment toggle).
 - **Progress status** changes only on Run, Submit, coach mastery, or manual override. Saving a draft never changes status.
 - **Coach prompts** are versioned files under `apps/server/src/coach/prompts/` and documented in `docs/COACH_PROMPTS.md`. The coach never reveals a full solution unless the problem is Solved and the user explicitly asked.

diff --git a/CHANGELOG.md b/CHANGELOG.md
@@ -12,6 +12,10 @@ entries had made the plan's last section longer than the plan. The days are
 newest first; within a day, entries are in the order they were written, which is
 how they arrived in that section and not worth rewriting after the fact.
 
+## 2026-09-23
+
+- **P9-6** — the redesign ran unattended through the `design-update` skill, and the first thing it found was that its input was missing: the reference image the request pointed at was not on disk. It went ahead on the values DESIGN.md v2 had already read off that image, and said so in the brief rather than inventing a measurement. Four token rounds were previewed on every screen in both themes and each went to a fresh reviewer; none reached the pass score, and all four reviewers said why in the same words - the rail, the cards, the dashboard and the serif are layout, and a token preview lays colour over the old layout. So the skill's no-pass rule applied: the best round with every hard gate green went forward, with its open issues written into `decision.md` as conditions on the apply. The rounds still earned their keep. The first two found that "selected" had been a tint nobody could see (1.03:1), which became a token of its own that always travels with a bar; the third that "solved in accent" contradicted "the accent is never a status", which settled topic bars in `success`; the fourth that the accent the reference read as was within a few ΔE of Tailwind's stock blue, so it moved two degrees. Two reviewer suggestions were declined because DESIGN.md states the opposite and the owner wrote it: accent-filled segments and an outlined AI Help pill. The editor's theme is read from the page's tokens rather than tabled beside them, which is why the preview could show it at all, and it surfaced an ordering bug: a child's effect ran before the shell applied the theme, so the editor read the previous theme's colours - the theme is now applied in a layout effect. The coach brief on Progress is written from the coach's rubric marks and never by calling it: D13 does not bend for a dashboard. Two API additions carried the look - a `solves` series and a Due view of the list - and each came with its route test. The built app then got the review the previews could not give it, and it found what previews never show: the statement's sixth tab invisible at 1024, text fields edged at 1.5:1 (a field's edge is the only sign it is a field, so it now has a 3:1 token of its own), the judge's values set at 11px, and the first file of a session left uncoloured for most of a second - the editor's theme effect redefined on mount the theme it had just defined, which restarts Monaco's tokenizer; timed against the build before the redesign and put back. The end-to-end suite found one more contrast failure on the selected step and one test still asserting the old Starred checkbox. It also found something about itself: with a dev server already holding port 5174, the suite's own API cannot bind, so every run had been answered by that dev server and its database rather than `e2e.db`. The Vite proxy and the suite now follow `DEVPROMAX_PORT`, so a run beside a dev server gets an API of its own; the cold-start test runs before the rest, because beside three browser workers on this machine it was timing the machine.
+
 ## 2026-09-22
 
 - **P9-6** — `docs/DESIGN.md` is rewritten from a reference the owner chose: a card-based dashboard with an icon rail, one saturated blue, big tabular numerals and a serif voice for its assistant. The first version ruled cards and shadows out altogether, as the house style of generated dashboards; the second keeps the reason and moves the line - a card has to answer one question, cards do not nest, and there is no grid of KPI tiles - because the owner preferred the calmer look and it was their call to make. What did not move is everything that is function rather than taste: semantic tokens over OKLCH ramps, contrast in both themes, one hue per verdict, colour never alone, the keyboard loop, offline fonts, 75ms colour-only motion. Three things were taken from the reference in adapted form rather than copied: its gradient orb became a flat coach mark, its lime delta chip became a lime-leaning success tint, because a second accent is still a second accent; and its serif, which marked the assistant there, marks the coach here - the one detail the redesign is meant to be remembered by. The reference's blue sits on Monaco's keyword hue, so the editor gets a theme of its own rather than the accent moving. Only the document has changed; tokens and screens follow through the `design-update` skill's redesign mode, with the owner approving a preview of every screen before any source changes.
